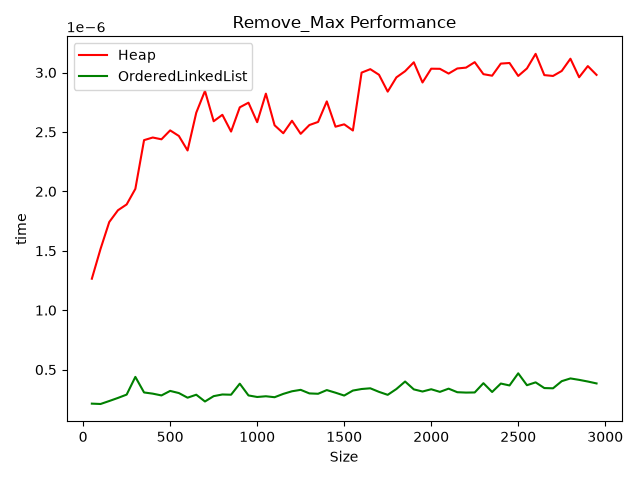
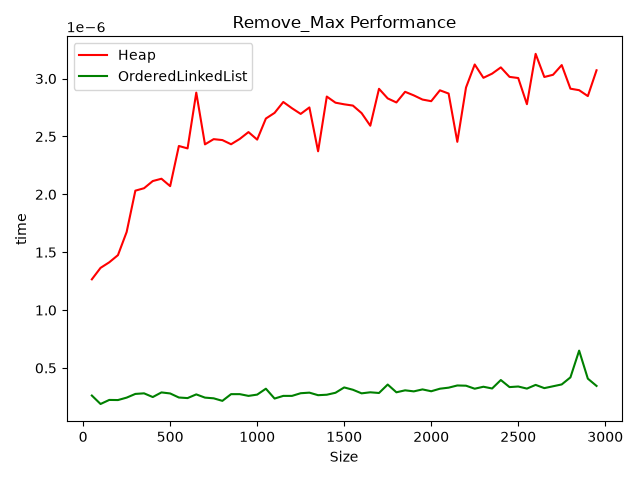
refactored testing code for removing max

diff --git a/PicchioniEs1LabAlg.py b/PicchioniEs1LabAlg.py
@@ -537,44 +537,44 @@ interval_end = 30000
 number_of_repeats = 5
 inputs = random.choices(range(interval_end), k=number_of_elements)
 
-print("# Testing Insertion cases")
-types_to_test = range(3)
-for i in range(1, 3):
-    insert_test(
-        i,
-        types_to_test,
-        number_of_elements,
-        number_of_operation,
-        interval_end,
-        number_of_repeats,
-        inputs,
-    )
-
-print("# Testing Insertion of random values, only Heap and LinkedList")
-types_to_test = [0, 2]
-insert_test(
-    0,  # test for random values
-    types_to_test,
-    number_of_elements,
-    number_of_operation,
-    interval_end,
-    number_of_repeats,
-    inputs,
-    "random_no_ord",
-)
-
-print("# Testing Insertion of ascending values, only Heap and LinkedList")
-types_to_test = [0, 2]
-insert_test(
-    1,
-    types_to_test,
-    number_of_elements,
-    number_of_operation,
-    interval_end,
-    number_of_repeats,
-    inputs,
-    "acending_no_ord",
-)
+# print("# Testing Insertion cases")
+# types_to_test = range(3)
+# for i in range(3):
+#     insert_test(
+#         i,
+#         types_to_test,
+#         number_of_elements,
+#         number_of_operation,
+#         interval_end,
+#         number_of_repeats,
+#         inputs,
+#     )
+#
+# print("# Testing Insertion of random values, only Heap and LinkedList")
+# types_to_test = [0, 2]
+# insert_test(
+#     0,  # test for random values
+#     types_to_test,
+#     number_of_elements,
+#     number_of_operation,
+#     interval_end,
+#     number_of_repeats,
+#     inputs,
+#     "random_no_ord",
+# )
+#
+# print("# Testing Insertion of ascending values, only Heap and LinkedList")
+# types_to_test = [0, 2]
+# insert_test(
+#     1,
+#     types_to_test,
+#     number_of_elements,
+#     number_of_operation,
+#     interval_end,
+#     number_of_repeats,
+#     inputs,
+#     "acending_no_ord",
+# )
 
 print("# Testing Remove_Max")
 for i in range(3):
@@ -584,6 +584,13 @@ for i in range(3):
         number_of_repeats,
         inputs,
     )
+    if i == 1:  # case without linked list
+        plt.title("Remove_Max Performance")
+        plt.xlabel("Size")
+        plt.ylabel("time")
+        plt.legend(loc="upper left")
+        plt.tight_layout()
+        plt.savefig("remove_max_performance_no_linked.png")
 
 plt.title("Remove_Max Performance")
 plt.xlabel("Size")
@@ -593,22 +600,23 @@ plt.tight_layout()
 plt.savefig("remove_max_performance.png")
 plt.clf()
 
-print("# Testing Remove_Max, only Heap and OrderedLinkedList")
-for i in range(2):
-    remove_max_test(
-        i,
-        number_of_operation,
-        number_of_repeats,
-        inputs,
-    )
-
-plt.title("Remove_Max Performance")
-plt.xlabel("Size")
-plt.ylabel("time")
-plt.legend(loc="upper left")
-plt.tight_layout()
-plt.savefig("remove_max_performance_no_linked.png")
-plt.clf()
+# FIXME I could just plot the graph with the data I already have when I run it the first time
+# print("# Testing Remove_Max, only Heap and OrderedLinkedList")
+# for i in range(2):
+#     remove_max_test(
+#         i,
+#         number_of_operation,
+#         number_of_repeats,
+#         inputs,
+#     )
+#
+# plt.title("Remove_Max Performance")
+# plt.xlabel("Size")
+# plt.ylabel("time")
+# plt.legend(loc="upper left")
+# plt.tight_layout()
+# plt.savefig("remove_max_performance_no_linked.png")
+# plt.clf()
 
 print("# Testing Increase_key")
 for i in range(3):
